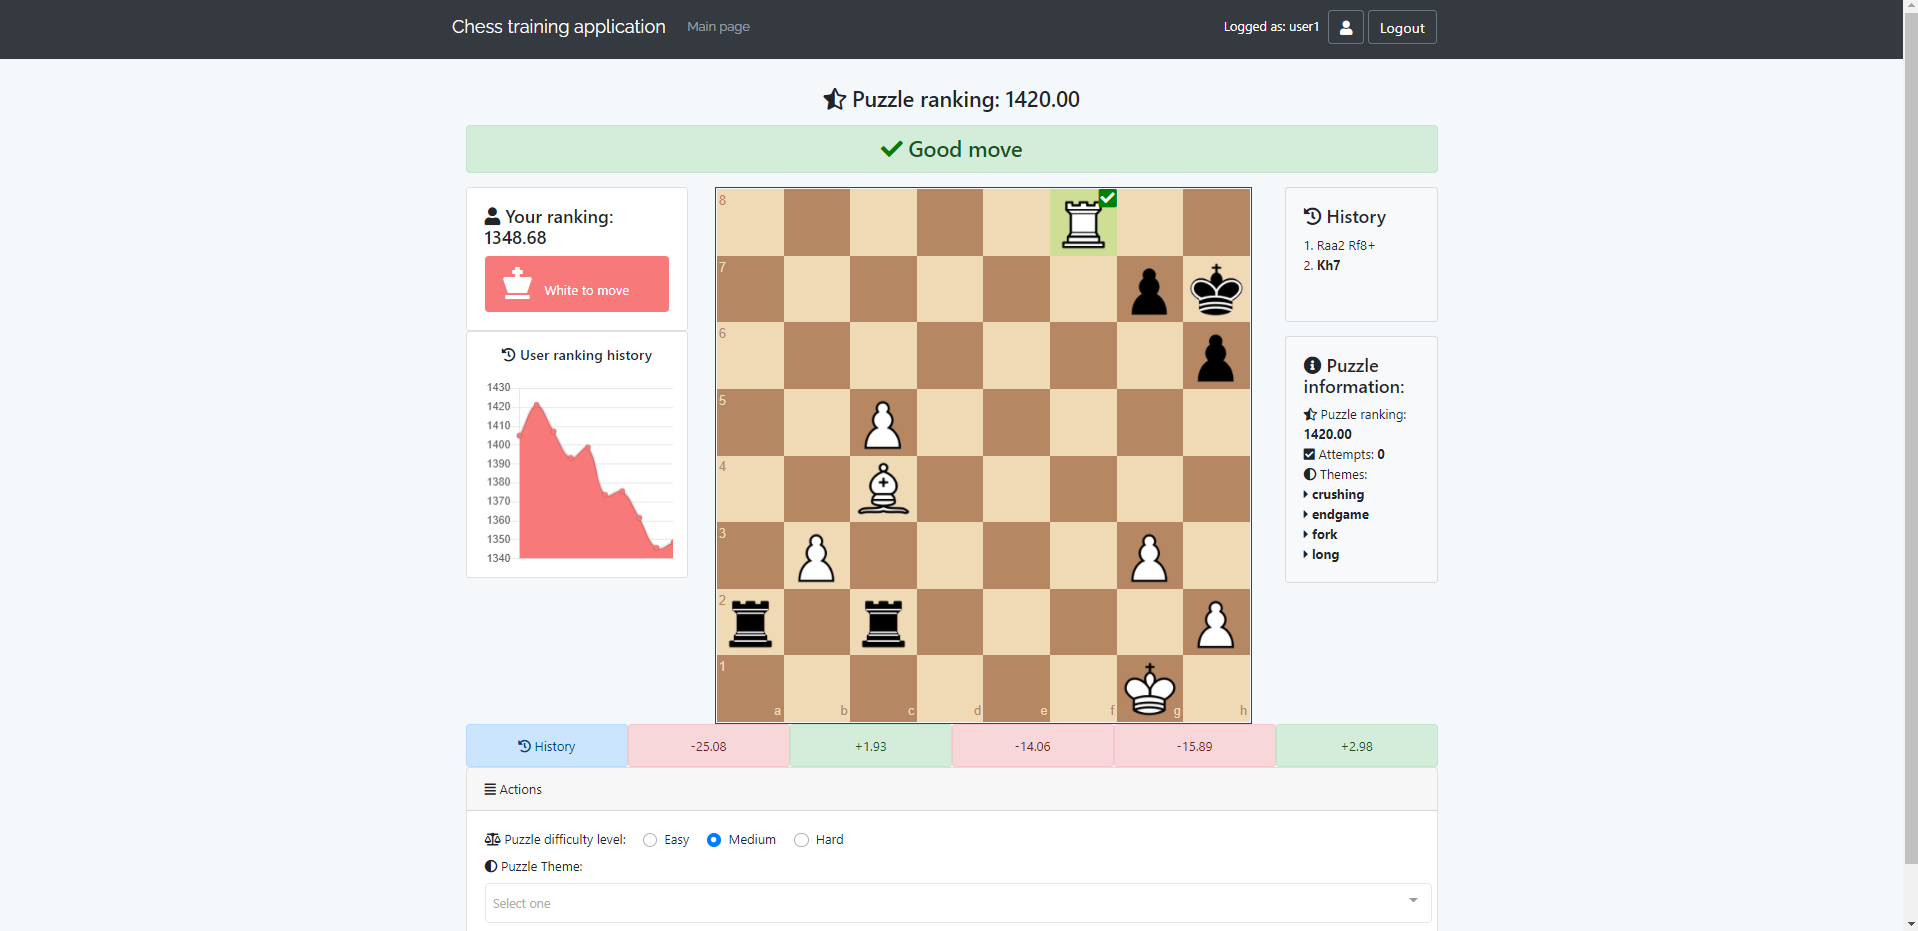
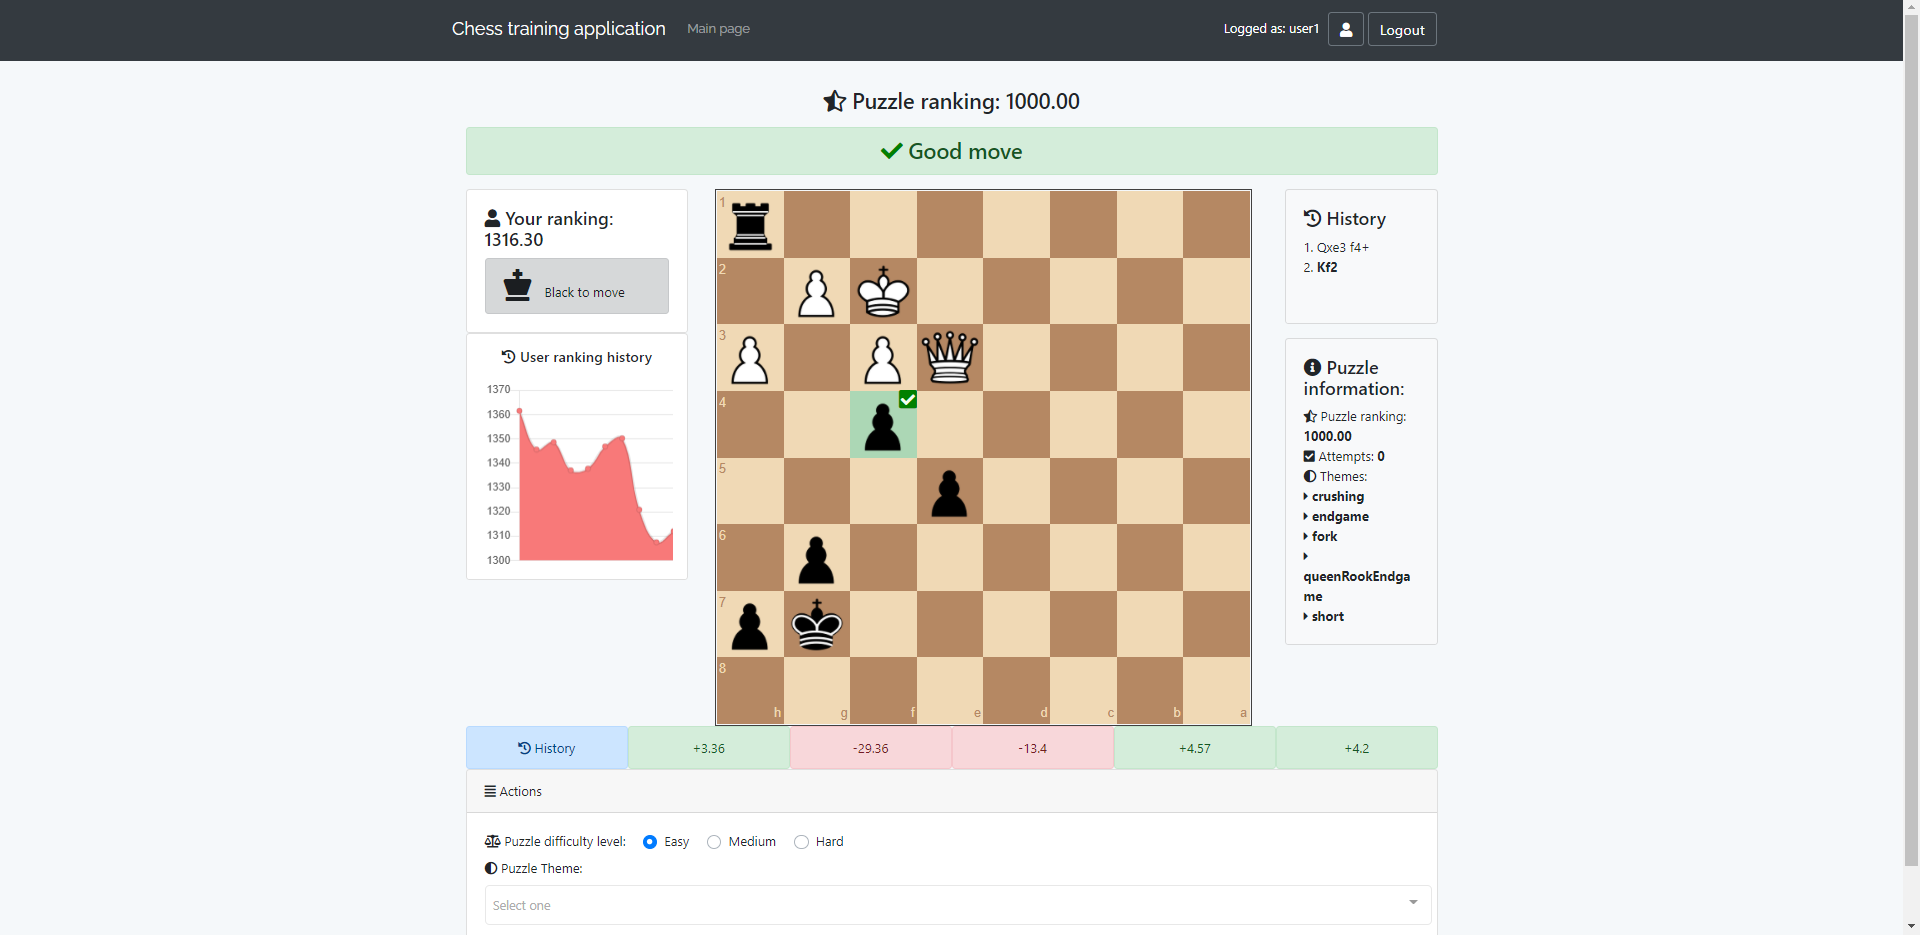
- adjusted color of the squares

diff --git a/assets/css/custom.css b/assets/css/custom.css
@@ -78,8 +78,8 @@
     margin-bottom: 0px;
 }
 .good-move-square {
-    background: #cede95 !important;
+    background: #acd7b5 !important;
 }
 .bad-move-square {
-    background: #ec7e6a !important;
+    background: #ffadad !important;
 }
